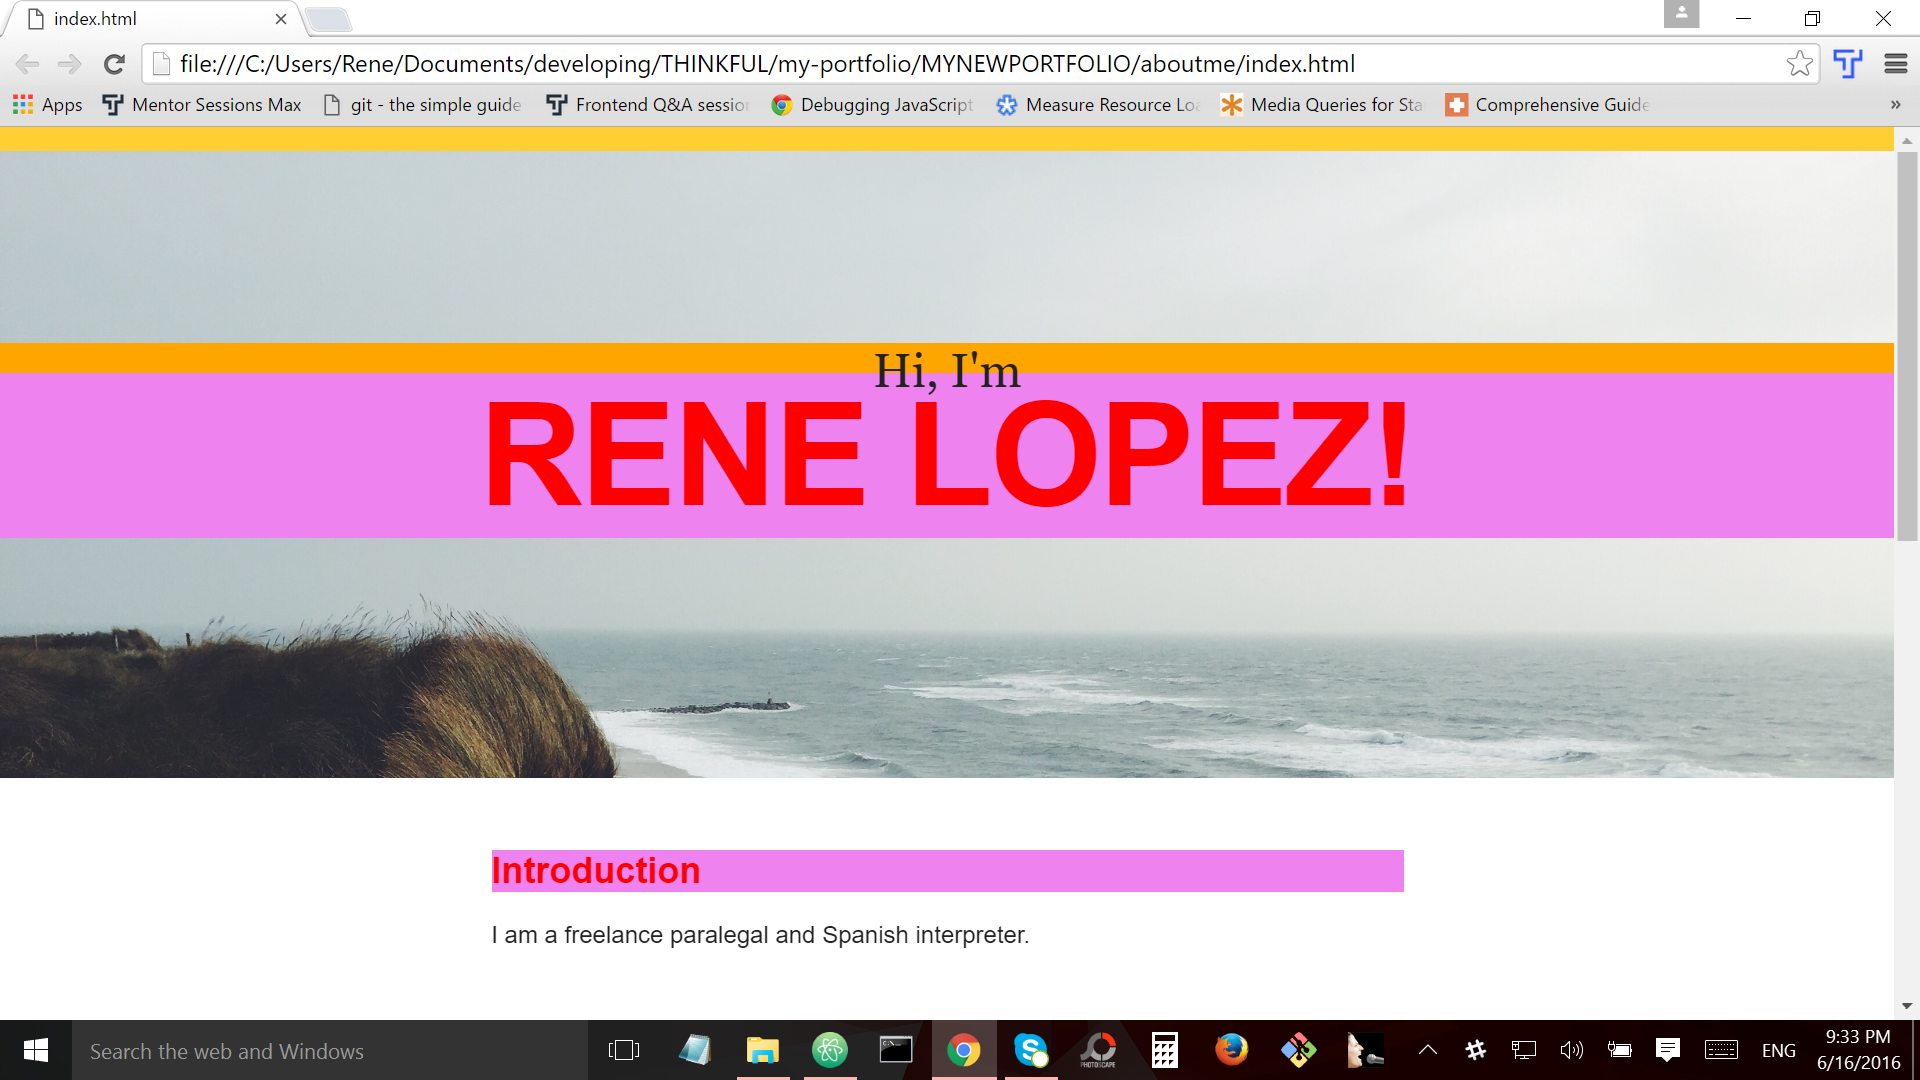
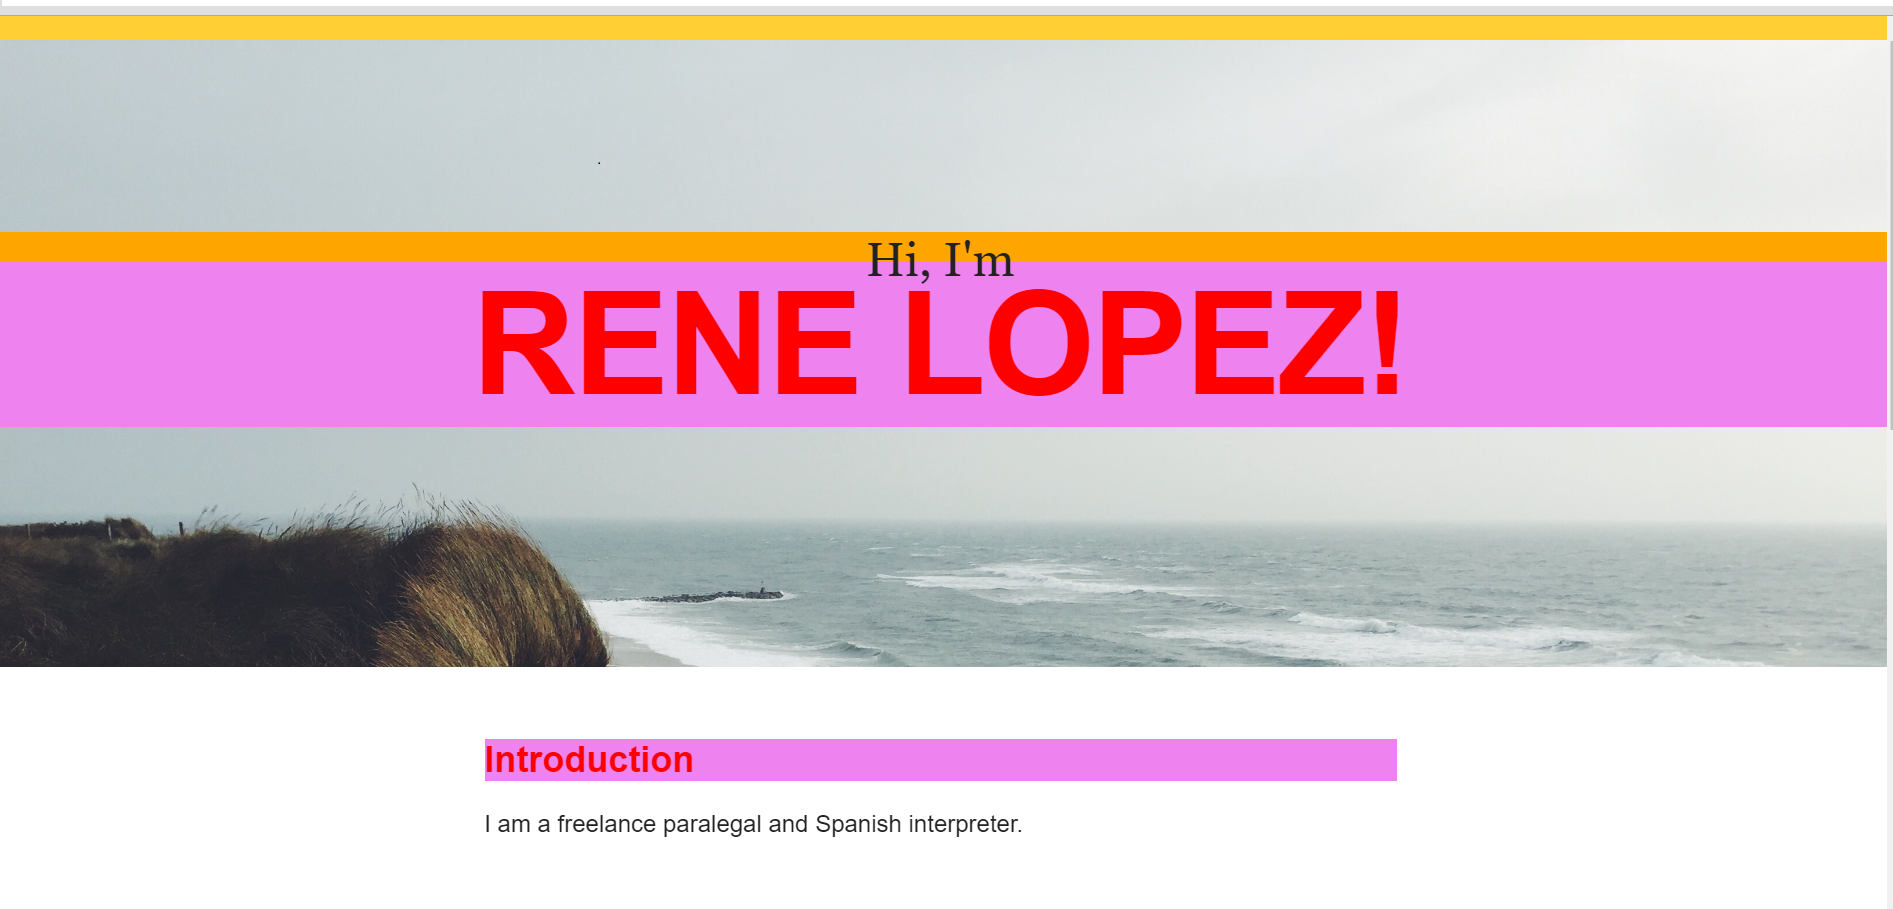
newChanges

diff --git a/main.css b/main.css
@@ -2,6 +2,20 @@
   margin: 0;
   padding: 0;
 }
+.legend {
+  text-align: center;
+font-size: 40px;
+  font-weight: bold;
+  background-color: #eeeeff;
+  padding-top:10px;
+  padding-bottom: 10px;
+  border-style: groove;
+  border-width: 8px;
+  border-color: aqua;
+  margin-left: 410px;
+  margin-right: 410px;
+  margin-top: 30px;
+}
 
 .greeting-section {
 text-align: center;
@@ -24,6 +38,7 @@ border-style: double;
 .introh2 {
   font-family: "Tahoma", "Geneva", sans-serif; color: navy;;
   margin-top: 30px;
+  text-decoration: underline;
 }
 .introh3 {
   font-family: "merriweather sans-serif", "Geneva", sans-serif;;
@@ -38,10 +53,7 @@ border-style: double;
 .name {
   padding-bottom: 30px;
 }
-.legend {
-  padding-top: 50px;
-  font-weight: bold;
-}
+
 .copyright {
   padding-bottom: 3px;
   padding-top: 3px;
@@ -59,9 +71,21 @@ border-style: double;
   font-family: "Tahoma", "Geneva", sans-serif; color: navy;
   font-style: italic;
 }
+.portfolio img{
+  width: 251px;
+  height: 165px;
+}
 .porth1 {
   font-style: normal;
-  padding-bottom: 30px;
+  padding-bottom: 10px;
+  padding-top: 10px;
+  border-style: groove;
+  border-width: 8px;
+  border-color: aqua;
+  margin-left: 400px;
+  margin-right: 400px;
+  margin-bottom: 20px;
+  background-color: #eeeeff;
 }
 .porth2 {
   padding-bottom: 20px;
@@ -71,4 +95,9 @@ border-style: double;
 }
 .imgrt {
   padding-left: 20px;
+}
+@@media (max-width: 400px) {
+h2 {
+  background-color: yellow;
+}
 }

diff --git a/index.html b/index.html
@@ -3,7 +3,7 @@
 <head>
   <meta charset="UTF-8">
   <title>My Portfolio</title>
-  <link rel="stylesheet" type="text/css" href="index1.css"/>
+  <link rel="stylesheet" type="text/css" href="main.css"/>
 </head>
 <body>
 <section class="greeting-section">
@@ -19,10 +19,11 @@
 </section>
 <section class="portfolio">
   <h1 class="porth1">PORTFOLIO</H1>
-  <h2 class="porth2">Here are some samples of my work!</h2>
-  <img class="imglft" src="images/aboutme.png" alt="aboutme"/>
-  <img class="imgrt" src="images/bballshot.png" alt="bballshot">
-</section>
+    <h2 class="porth2">Here are some samples of my work!</h2>
+<a class="image" href="http://renelo.github.io/About-Me/"/>
+   <img class="imglft" src="images/aboutme.png" alt="aboutme"/></a>
+    <a class="image" href="http://renelo.github.io/FreshPrince/">  <img class="imgrt" src="images/bballshot.png" alt="bballshot"></a>
+  </section>
 <section class="footer">
 <footer class="contactinfo">
   <address>334 Crescent Drive, Suite 101<br>

diff --git a/frsite/fresh-prince.html b/frsite/fresh-prince.html
@@ -1,0 +1,27 @@
+<!DOCTYPE html>
+
+<html>
+<head>
+<meta charset="UTF-8">
+<title>The Fresh Prince of Bel-Air</title>
+<link rel="stylesheet" type="text/css" href="mystyle.css">
+</head>
+<body>
+<h1>The Fresh Prince of Bel-Air</h1>
+<img class="bball" src="images/bball.png" alt="ball players">
+<p>From western Philadelphia I hail
+where in my youth I'd play upon the green
+'til - rue the day! -I found myself assail'd
+by ruffians contemptible and mean.
+Although the spat was trivial and brief,
+it wounded my dear mother deep within;
+and so, to give her conscience sweet relief,
+she sent me forth to live amongst her kin.
+When to my port of call I'd been conveyed,
+I came upon a coachman most unique;
+and yet, I simply took the trip and paid,
+despite his cab's decor and fresh mystique.
+I survey all the land with princely mien
+in fair Bel-Air, where I do lay my scene.</p>
+</body>
+</html>
